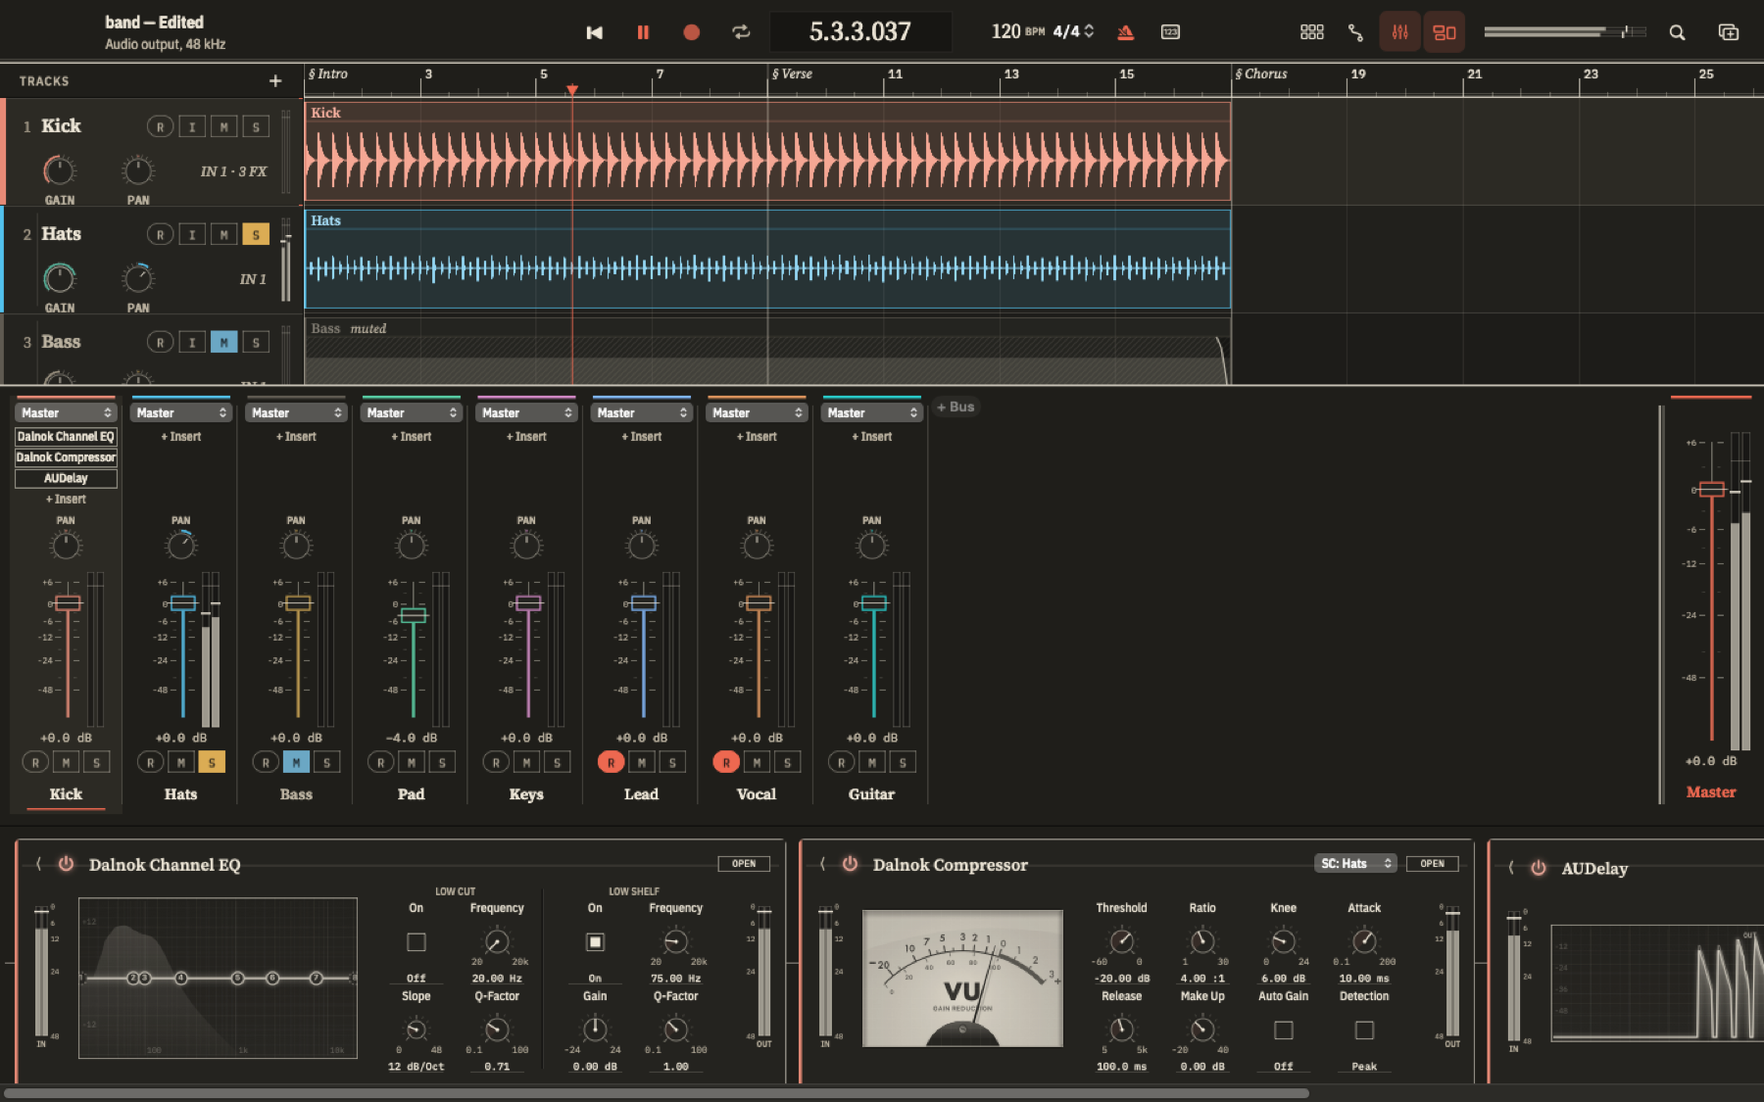
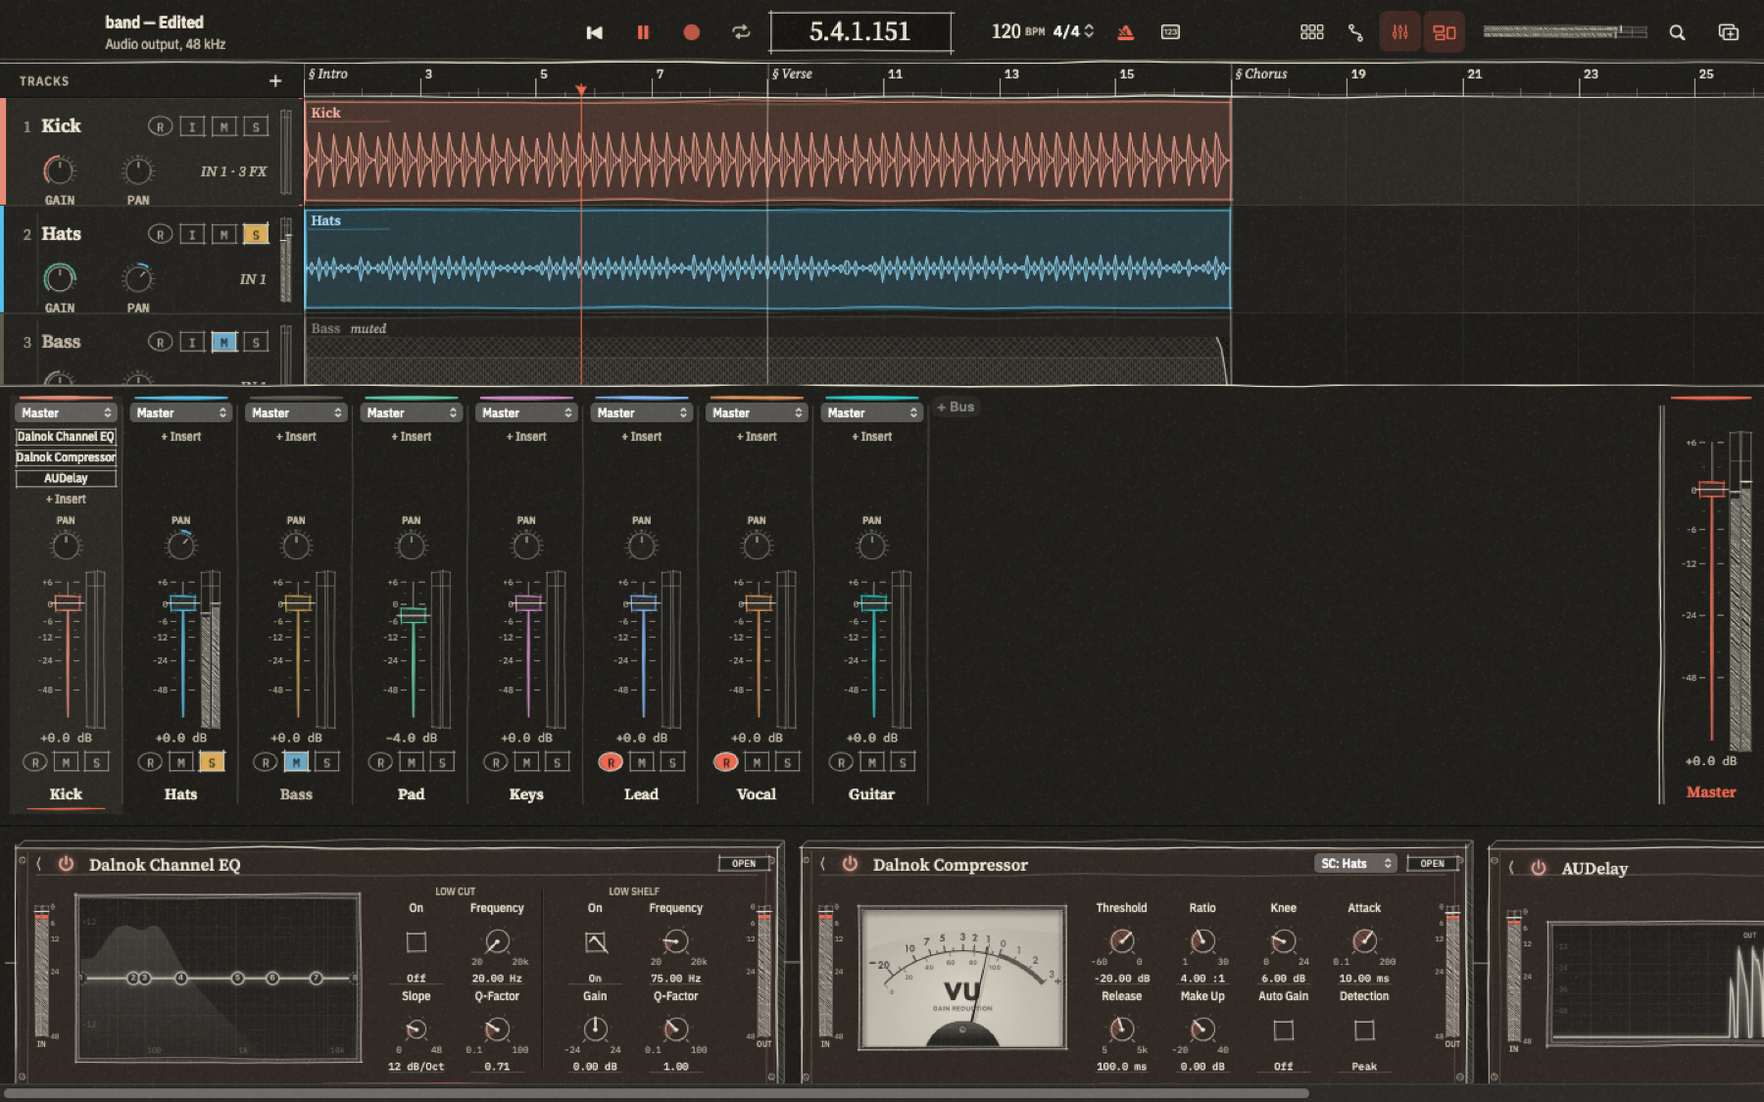
Docs: state, changelog, journal, roadmap, parity; theme performance; Atelier README stills
Claude-Session: https://claude.ai/code/session_01NnK9o7Pqdn3gTXQ79U9ACS

diff --git a/README.md b/README.md
@@ -53,7 +53,7 @@ the project, undo history and zoom stay where they were.
 |:---:|:---:|
 | <img src="assets/screenshots/graphite.png" alt="Graphite: a flat, dark digital workstation" width="100%"><br>**Graphite**: a modern digital workstation, built for clarity | <img src="assets/screenshots/warm-analog.png" alt="Warm Analog: tape transport, console mixer and plug-ins as pedals patched with cables" width="100%"><br>**Warm Analog**: a tape deck, a console and a pedalboard |
 | <img src="assets/screenshots/prism-dark.png" alt="Prism Dark: panes of glass floating over a field of coloured light" width="100%"><br>**Prism Dark**: panes of glass over a field of light | <img src="assets/screenshots/prism-light.png" alt="Prism Light: milky glass panes over a pale field of light" width="100%"><br>**Prism Light** |
-| <img src="assets/screenshots/atelier-light.png" alt="Atelier Light: ink on ivory paper, ruled like a drafting table" width="100%"><br>**Atelier Light**: ink on paper, typeset and ruled | <img src="assets/screenshots/atelier-dark.png" alt="Atelier Dark: chalk on a charcoal board" width="100%"><br>**Atelier Dark**: chalk on a charcoal board |
+| <img src="assets/screenshots/atelier-light.png" alt="Atelier Light: a sketchbook, everything drawn by hand in pen and ink wash" width="100%"><br>**Atelier Light**: a sketchbook, drawn by hand in pen | <img src="assets/screenshots/atelier-dark.png" alt="Atelier Dark: white gel pen in a black sketchbook" width="100%"><br>**Atelier Dark**: white gel pen in a black sketchbook |
 
 ### See them move
 Each tour plays the same generated project: the mixer opens and closes, a plug-in is switched off and on, and the
@@ -64,8 +64,8 @@ device chain follows the selected track.
 <td align="center"><img src="assets/screenshots/tour-warm-analog.gif" alt="Warm Analog tour" width="100%"><br><sub>Warm Analog · <a href="assets/videos/tour-warm-analog.mp4">video</a></sub></td></tr>
 <tr><td align="center"><img src="assets/screenshots/tour-prism-dark.gif" alt="Prism Dark tour" width="100%"><br><sub>Prism Dark · <a href="assets/videos/tour-prism-dark.mp4">video</a></sub></td>
 <td align="center"><img src="assets/screenshots/tour-prism-light.gif" alt="Prism Light tour" width="100%"><br><sub>Prism Light · <a href="assets/videos/tour-prism-light.mp4">video</a></sub></td></tr>
-<tr><td align="center"><img src="assets/screenshots/tour-atelier-light.gif" alt="Atelier Light tour" width="100%"><br><sub>Atelier Light · <a href="assets/videos/tour-atelier-light.mp4">video</a></sub></td>
-<td align="center"><img src="assets/screenshots/tour-atelier-dark.gif" alt="Atelier Dark tour" width="100%"><br><sub>Atelier Dark · <a href="assets/videos/tour-atelier-dark.mp4">video</a></sub></td></tr>
+<tr><td align="center"><img src="assets/screenshots/tour-atelier-light.gif" alt="Atelier Light tour" width="100%"><br><sub>Atelier Light (before the sketchbook redo) · <a href="assets/videos/tour-atelier-light.mp4">video</a></sub></td>
+<td align="center"><img src="assets/screenshots/tour-atelier-dark.gif" alt="Atelier Dark tour" width="100%"><br><sub>Atelier Dark (before the sketchbook redo) · <a href="assets/videos/tour-atelier-dark.mp4">video</a></sub></td></tr>
 </table>
 
 ### What makes each theme
@@ -77,7 +77,7 @@ device chain follows the selected track.
   - Selected items rise.
   - Meters are pipes of light.
   - The playhead's small prism casts a spectrum over the ruler.
-- **Atelier**: a composer's drafting table set in Source Serif 4 and IBM Plex.
+- **Atelier**: a sketchbook: everything drawn by hand in pen, ink wash and hatching (plug-ins are pen sketches of the hardware), set in Source Serif 4 and IBM Plex.
   - Bars are ruled, heavier every four.
   - Markers become "§ Verse" headings.
   - Selection is a pair of crop marks.
@@ -102,8 +102,8 @@ theme, while a 4-bar loop plays:
 <tr><td align="center"><img src="assets/screenshots/plugins-warm-analog.gif" alt="Warm Analog: the same steps with pedals and patch cables" width="100%"><br><sub>Warm Analog: pedals and patch cables · <a href="assets/videos/plugins-warm-analog.mp4">video</a></sub></td></tr>
 <tr><td align="center"><img src="assets/screenshots/plugins-prism-dark.gif" alt="Prism Dark: glass cards on a beam of light" width="100%"><br><sub>Prism Dark: glass cards on a beam of light · <a href="assets/videos/plugins-prism-dark.mp4">video</a></sub></td></tr>
 <tr><td align="center"><img src="assets/screenshots/plugins-prism-light.gif" alt="Prism Light: the same steps on milky glass" width="100%"><br><sub>Prism Light · <a href="assets/videos/plugins-prism-light.mp4">video</a></sub></td></tr>
-<tr><td align="center"><img src="assets/screenshots/plugins-atelier-light.gif" alt="Atelier Light: plug-ins as sheets in a schematic" width="100%"><br><sub>Atelier Light: sheets in a schematic · <a href="assets/videos/plugins-atelier-light.mp4">video</a></sub></td></tr>
-<tr><td align="center"><img src="assets/screenshots/plugins-atelier-dark.gif" alt="Atelier Dark: the schematic in chalk" width="100%"><br><sub>Atelier Dark · <a href="assets/videos/plugins-atelier-dark.mp4">video</a></sub></td></tr>
+<tr><td align="center"><img src="assets/screenshots/plugins-atelier-light.gif" alt="Atelier Light plug-ins, before the sketchbook redo" width="100%"><br><sub>Atelier Light (recorded before the sketchbook redo; retaken at the next release) · <a href="assets/videos/plugins-atelier-light.mp4">video</a></sub></td></tr>
+<tr><td align="center"><img src="assets/screenshots/plugins-atelier-dark.gif" alt="Atelier Dark plug-ins, before the sketchbook redo" width="100%"><br><sub>Atelier Dark (before the sketchbook redo) · <a href="assets/videos/plugins-atelier-dark.mp4">video</a></sub></td></tr>
 </table>
 
 Third-party plug-ins get the same treatment. The display is chosen from what a plug-in declares, its name and its

diff --git a/CHANGELOG.md b/CHANGELOG.md
@@ -4,7 +4,7 @@
 
 - **Two new themes, Prism and Atelier, each with a light and a dark version** (View ▸ Theme, Settings ▸ Appearance; Match System follows macOS). They change how everything is drawn, not what it does: every command, shortcut and control works the same in all four themes.
   - **Prism** is made of glass. A field of soft coloured light fills the window and every surface floats over it as a pane of glass that bends and catches the light at its rim (in the spirit of Apple's Liquid Glass, drawn by Dalnok so it looks the same everywhere). The control bar is three floating capsules; clips, strips, cards and notes are tinted glass that rises when selected; meters are light pipes; the playhead's prism head casts a small spectrum over the ruler.
-  - **Atelier** is a composer's drafting table: ink on ivory (or chalk on a charcoal board), typeset in Source Serif 4 and IBM Plex. Bars are ruled, heavier every four; beats are margin ticks; clips are ink plates; markers become "§ Verse" section headings; selection is a pair of crop marks that glides between clips; the mixer has graduated scales and slide-rule faders; plug-in screens become plots on graph paper; in the piano roll a note's weight is its velocity.
+  - **Atelier** is a sketchbook: everything is drawn by hand in pen on drawing paper (or white gel pen in a black sketchbook), still typeset in Source Serif 4 and IBM Plex. Lines wobble a little and taper with the pen, boxes overshoot their corners, clips are ink washes with pen outlines, waveforms are drawn with a pen, levels and shade are hatched, markers become "§ Verse" headings. Plug-ins are pen sketches of the hardware: a box seen slightly from above with a hatched side, rack ears and screws, screens behind hatched bezels, check boxes with a ticked mark. In the piano roll a note's pen pressure is its velocity.
   - Fonts (Sora, Geist Mono, IBM Plex Sans Condensed, IBM Plex Mono, Source Serif 4) are bundled under the SIL Open Font License.
 - **View ▸ Composition Overview (⌥⌘O):** the project as a roadmap. Its sections come from your markers (or 8-bar ranges if there are none), with each track's part in every section and its volume automation; click a section, or use the arrow keys and Return, to show it in the arrangement. Esc returns. Works in every theme.
 - **Dalnok Compressor**, a built-in compressor with a sidechain: threshold, ratio, soft knee, attack, release, make-up and auto gain, peak or RMS detection, a side-chain filter with Listen, and Mix, with a gain-reduction meter. Choose another track in the unit's sidechain menu to key it (ducking). Its sound is Dalnok's own; it has not yet been matched to Logic's Compressor.
@@ -14,6 +14,10 @@
 - Developer: `Dalnok <project> --gallery <dir>` captures every screen a theme has to get right (`DALNOK_THEME`, `DALNOK_VARIANT`).
 - README: screenshots, tours and plug-in clips for all four themes in both versions. Developer: `scripts/dev/readme-media.sh` regenerates them; `--tour` with `DALNOK_TOUR_MODE=plugin-ops` plays the plug-in script (add, adjust, sidechain, bypass, fold, reorder, remove).
 - Fixed: in a narrow window the transport could overlap the tools in the control bar (every theme).
+- **Clip launcher:** record straight into a slot: on a record-enabled track every empty slot has a record mark; click it to record into that slot (the take keeps the whole bars it covers) and click again to stop. Dragging an arrangement clip onto a filled slot replaces it (⌘Z brings the old one back); each drag between the arrangement and the launcher is one undo step. A launch waiting for its bar shows a dashed outline, a launch sweeps light across its slot and new clips settle into their slots (all instant with Reduce Motion).
+- **Latency is measured again every time the device starts.** An interface's round trip can change by a few samples from one start of its audio stream to the next (a Scarlett Solo reads 1136 or 1142 samples). After you measure once on a loopback input, every new stream measures itself inaudibly in its first moment, even while the project plays, and its takes use that. On a Scarlett Solo 4th Gen, six takes in a row landed on the exact sample. Audio ▸ Recording Input ▸ Re-measure on Every Device Start turns it off.
+- **Keyboard and VoiceOver:** Tab now reaches every control in every window (with Keyboard navigation on in System Settings), in all themes; before, it reached almost nothing. Pop-up menus without names got them. The launcher grid works from the keyboard (arrows, Space or Return, Esc stops all), Edit ▸ Select Previous/Next Clip (⌥← / ⌥→) chooses clips without a mouse, and Tab moves on from a focused control even in the Ableton shortcut preset, where Tab shows the launcher.
+- Developer: C API 45 (`dalnok_launcher_queued`, `dalnok_latency_auto_set`, `dalnok_latency_auto_result`); `DALNOK_A11Y_ONLY=1` runs only the self-test's accessibility audit; `DALNOK_SNAPSHOT_SCALE=2` captures galleries at Retina resolution; theme performance in `08 - Testing and Benchmarks/Theme Performance 2026-11-22.md`.
 
 ## [0.3.0] - 2026-11-21
 

diff --git a/10 - Development Journal/2026-11-22.md b/10 - Development Journal/2026-11-22.md
@@ -48,3 +48,36 @@ created: 2026-11-22
   was behind the window, because the app quit about a second before a 12.5 s recording finished; screen-recorded tours
   now stay up to 13 s, and plug-in clips to 23 s. Every clip's first and last frames were checked. PR #6 carried the
   earlier tours (their last frames showed the terminal), so it was closed unmerged and replaced by a clean PR.
+
+## Later: PR #8, launcher, accessibility, per-stream latency, Atelier as a sketchbook, theme performance
+- **PR #8** (Prism plug-ins drawn as glass) was merged before this session (076706d): liquid-glass units with screens,
+  VU, values, knobs and meters drawn on the glass; README media retaken for it.
+- **Clip launcher** (C API 45 `dalnok_launcher_queued`): record marks on empty slots of armed tracks (click to record
+  into the slot, again to stop; takes go back to their earlier target afterwards); drops on a filled slot replace it;
+  Motion: a dashed, breathing outline while a launch waits for its bar, a sweep when it starts, a spring when a clip
+  arrives (`Motion.breathe`; Reduce Motion: none, the outline steady). Engine tests `LauncherSlots` (4); the self-test
+  drives both drags, the record mark, the motion on and reduced. Found on the way: slot recording already existed in
+  the engine (context menu only).
+- **Accessibility pass** (`SelfTest+Accessibility.swift`, `DALNOK_A11Y_ONLY=1`): an audit of 13 windows (VoiceOver
+  names for every interactive element; Tab reaches every control; the loop closes). First run: Tab reached 0–2 controls
+  in most windows because no window had a key-view loop (all views are built in code). Fixed with
+  `autorecalculatesKeyViewLoop` everywhere plus recalculation after dynamic content (shortcut chips, Welcome steps);
+  5 unnamed pop-ups named; tempo field and launcher grid focus from Tab only (`CommittingWindow.navigating`; letting
+  AppKit focus the tempo field at launch swallowed the arrow keys); launcher keyboard cursor; Edit ▸ Select
+  Previous/Next Clip (⌥←/⌥→); Tab yields to focus even where a preset binds Tab. Tab checks need Full Keyboard Access
+  (`needs: .fullKeyboardAccess`, SKIP otherwise): verified locally by turning the global setting on for the run and
+  deleting it after. All six looks clean. Not done: listening with VoiceOver itself.
+- **Latency per stream** (C API 45 `dalnok_latency_auto_set/result`): a -80 dBFS burst train added to the first 0.75 s
+  of every new duplex stream on the loopback device, cross-correlated with what the engine played (envelope search,
+  then exact lags). Hardware (owner approved the Scarlett; quiet test: -60 dBFS noise): six takes, each a new stream,
+  measured 1136, 1142, 1136, 1142, 1136, 1142 and every take landed on the sample. Bug found by the self-test: turning
+  the check off kept the last stream's value; it now clears.
+- **Atelier redrawn as a sketchbook** (owner: hand-drawn everywhere, especially plug-ins, own style; fonts kept). See
+  `06 - Design/Atelier.md`. Plug-ins are pen sketches of hardware; seeds keep every mark stable across redraws.
+  Gallery captures at 2x with `DALNOK_SNAPSHOT_SCALE=2`. README stills for Atelier retaken; its tours and plug-in clips
+  are marked as pre-redo until the next release retakes them.
+- **Theme performance** (`08 - Testing and Benchmarks/Theme Performance 2026-11-22.md`): Prism +0.55 ms main-thread p50
+  over Graphite, Atelier +0.4 ms; no overloads, no missed blocks, no pass over 50 ms.
+- Cleanup: `docs/readme-media` deleted on GitHub (closed PR #6).
+- Process slip: one gallery run overlapped a background self-test (two Dalnok instances). The matrix was stopped and
+  rerun from scratch, and the stills retaken alone.

diff --git a/CURRENT_STATE.md b/CURRENT_STATE.md
@@ -1,9 +1,37 @@
 ---
-updated: 2026-11-21
+updated: 2026-11-22
 phase: Phases 1, 3 and 4 complete; 2 (power-loss test) and 5 in progress
 milestone: 0.3.0, Phase 4 complete; recording I/O (separate devices, Input Monitoring, measured latency) verified on a Scarlett
 ---
 # Current State
+
+## Latest (2026-11-22, evening): launcher, accessibility, per-stream latency, Atelier sketchbook
+Branch `feat/launcher-recording-and-drag` (from `main` 076706d, which has PR #8: Prism plug-ins drawn as glass, with
+README media retaken). C API 45. Not merged yet.
+- **Clip launcher (Phase 5):** record into a slot from its record mark (click again to stop; whole bars, one undo
+  step); drops on a filled slot replace it; drags each way are one undo step; queued launches (`dalnok_launcher_queued`),
+  launch sweeps and arrivals animate through Motion and respect Reduce Motion; the grid works from the keyboard.
+  Evidence: `LauncherSlots` (4 engine tests); self-test (drags, record mark, motion on and reduced, keyboard).
+- **VoiceOver and keyboard pass, every window, all six looks:** `SelfTest+Accessibility.swift` audits 13 windows
+  (accessible names; Tab reaches every control; the loop closes). Tab had reached 0–2 controls in most windows; fixed
+  (key-view loops, 5 pop-ups named, Tab-only focus for the tempo field and launcher grid, Edit ▸ Select Previous/Next
+  Clip, Tab yields to focus even in the Ableton preset). Tab checks need Full Keyboard Access (SKIP otherwise); verified
+  locally with it on. **Not done:** listening with VoiceOver itself.
+- **Latency re-measured on every device stream** (`dalnok_latency_auto_set`): inaudible burst train correlated with the
+  output. Evidence: `LatencyAuto` (3 engine tests), self-test, and the Scarlett Solo loopback: six streams measured
+  1136, 1142, 1136, 1142, 1136, 1142, every take on the sample (`HardwareLoopback/everyStreamIsChecked…`).
+- **Atelier redrawn as a sketchbook** (owner brief; fonts unchanged): `06 - Design/Atelier.md`. Plug-ins are pen sketches
+  of hardware. README Atelier stills retaken; its tours and plug-in clips are pre-redo until the next release.
+- **Theme performance:** `08 - Testing and Benchmarks/Theme Performance 2026-11-22.md` (Prism +0.55 ms main-thread p50
+  over Graphite, Atelier +0.4 ms; no overloads, no missed blocks).
+- **Verification:** `swift test --disable-sandbox` 287 pass; gen-api up to date. Self-test matrix (Full Keyboard Access
+  off, so 9 Tab checks SKIP with the reason, plus 3 that need the test VST3), all PASS: 967 checks at 48 kHz and 948 at
+  44.1 kHz in Graphite, Prism Dark and Light, Atelier Light and Dark; Warm Analog 952 / 933. With Full Keyboard Access
+  on, the Graphite run passes 971 with no Tab SKIPs, and the audit-only pass is clean in all six looks.
+- Cleanup: `docs/readme-media` deleted on GitHub.
+- **Next:** open the PR, merge after green CI; a listening pass with VoiceOver; retake all README media at the next
+  release (Atelier tours and plug-in clips especially).
+
 
 ## Latest (2026-11-21, night): Prism and Atelier themes, Dalnok Compressor, Composition Overview
 Merged to `main` (2026-11-22): PR #4 (compressor, 484b9bf), then PR #5 (themes, 1a4cb73); CI green on both. Not released yet.

diff --git a/02 - Master Roadmap.md b/02 - Master Roadmap.md
@@ -24,7 +24,7 @@ Concept Guide. Grows with each phase: MIDI (P3), plugins, automation, and sends 
 Signalsmith-based stretch, pitch, and varispeed rendered in the background. ⌥-drag stretch and the Clip
 menu. Imported REAPER playrates and Ableton warp markers now play correctly.
 
-## Phase 2: Recording and editing 🔶 (recording, journals, crash recovery prompt, cycle, punch, count-in, multi-input, separate input/output devices, Input Monitoring, live waveform, disk streaming and loopback-measured latency verified, the last on a Scarlett; open: power-loss test)
+## Phase 2: Recording and editing 🔶 (recording, journals, crash recovery prompt, cycle, punch, count-in, multi-input, separate input/output devices, Input Monitoring, live waveform, disk streaming and loopback-measured latency verified, re-measured on every device stream (Scarlett: 6 of 6 takes sample-exact); open: power-loss test)
 Input and recording (with a Scarlett test rig), monitoring, split, fades, crossfades, autosave and crash
 recovery, basic routing, disk streaming.
 
@@ -35,9 +35,9 @@ MIDI tracks, recording and playback, piano roll, quantize, velocity, tempo and m
 **VST3 hosting (first format)** with generic parameter panels, then AU and CLAP. Mixer, buses, sends,
 sidechains, automation, delay compensation, **comping and take folders**, track stacks.
 
-## Phase 5: Creative workflows 🔶 (clip launcher with scenes on the same tracks started)
+## Phase 5: Creative workflows 🔶 (clip launcher on the same tracks: scenes, follow actions, performance recording, recording into slots, drags both ways, launch motion and keyboard use verified)
 **Unified clip launcher** on the same tracks as the timeline. Flex-style time and pitch editing
 (Signalsmith Stretch). Modulation system, racks, scripting API, macros, workspaces.
 
 ## Phase 6: Refinement ⬜
-Performance, accessibility, theme system (including analog; four themes with light/dark versions done 2026-11-22), DAWproject interchange, Windows and Linux front ends, local AI assistance.
+Performance, accessibility (automated VoiceOver-name and Tab audit of every window in every look, 2026-11-22; a listening pass with VoiceOver still to do), theme system (including analog; four themes with light/dark versions done 2026-11-22; Atelier redrawn as a hand-drawn sketchbook), DAWproject interchange, Windows and Linux front ends, local AI assistance.

diff --git a/08 - Testing and Benchmarks/Theme Performance 2026-11-22.md b/08 - Testing and Benchmarks/Theme Performance 2026-11-22.md
@@ -1,0 +1,24 @@
+---
+created: 2026-11-22
+related: "[[Theme System]]", "[[Prism]]", "[[Atelier]]"
+---
+# Theme performance: Prism and Atelier vs Graphite (2026-11-22)
+
+`Dalnok <project> --perf 20`, release build, on this Mac's default output (silent), generated `large` project
+(64 tracks, 64 clips, `scripts/make-test-project.sh … large`). Prism renders its screens offscreen (glass pass);
+Atelier draws every mark by hand (pen outlines, hatching) since the sketchbook redo. Two runs each for Graphite,
+Prism Dark and Atelier Light, one for Prism Light.
+
+| Look | Main thread p50 | p99 | max | > 50 ms | Display tick p50 / p99 | Overloads | Missed blocks | Worst render |
+|---|---|---|---|---|---|---|---|---|
+| Graphite | 1.72 / 1.68 ms | 3.09 / 3.01 | 16.2 / 14.3 | 0 | 0.28 / 0.48 | 0 | 0 | 0.54 / 0.36 ms |
+| Prism Dark | 2.28 / 2.22 ms | 3.80 / 3.85 | 13.8 / 14.1 | 0 | 0.25 / 0.42 | 0 | 0 | 0.53 / 0.44 ms |
+| Prism Light | 2.26 ms | 3.75 | 20.4 | 0 | 0.26 / 0.44 | 0 | 0 | 0.40 ms |
+| Atelier Light | 2.14 / 2.03 ms | 4.44 / 4.37 | 15.9 / 16.2 | 0 | 0.24 / 0.38 | 0 | 0 | 0.30 / 0.46 ms |
+
+- Prism costs about 0.55 ms more per main-thread pass at the median than Graphite (+32 %) and 0.8 ms at p99; no pass
+  came near a frame's 16.7 ms budget except the first-draw maxima, which all themes share (14–20 ms).
+- Atelier's hand-drawn marks cost about 0.4 ms at the median and 1.4 ms at p99 over Graphite.
+- Audio is unaffected by the theme: no overloads or missed blocks, worst render under 0.6 ms of a 10.67 ms period.
+- Conclusion: both new looks are within budget on this project; nothing to optimise now. Re-measure on a 128-track
+  project with plug-ins if a theme change touches the device panel or mixer drawing.
